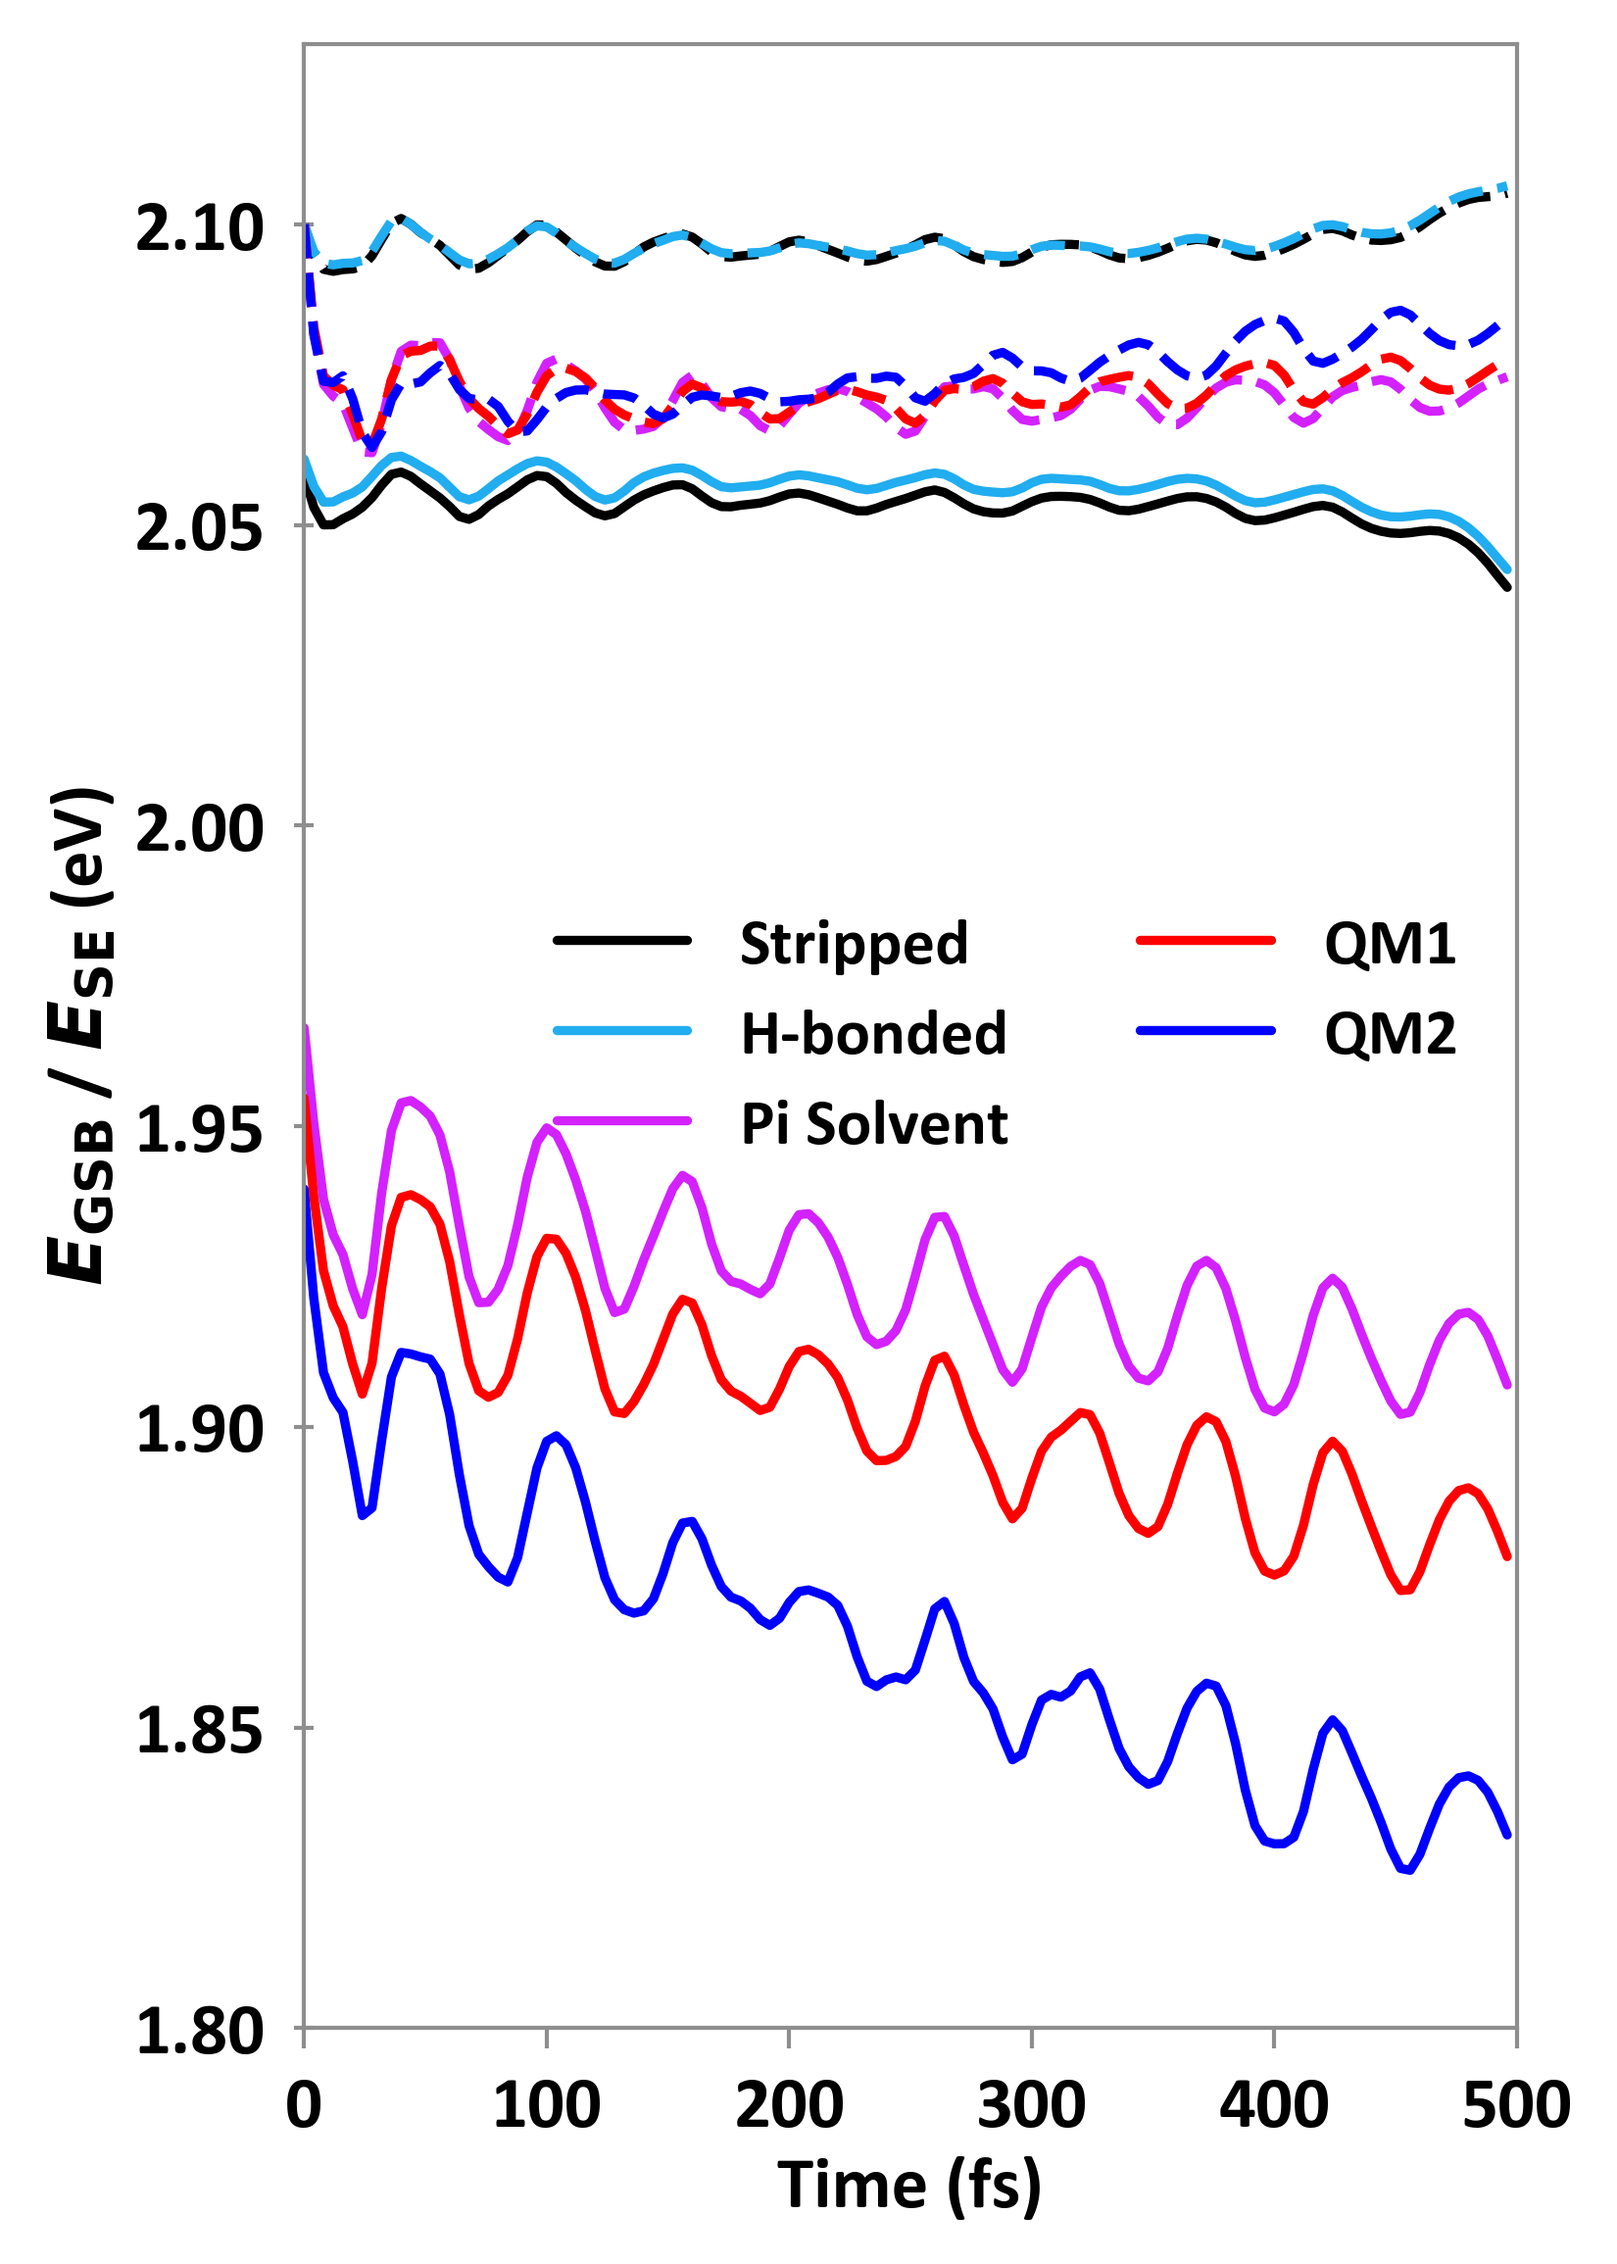
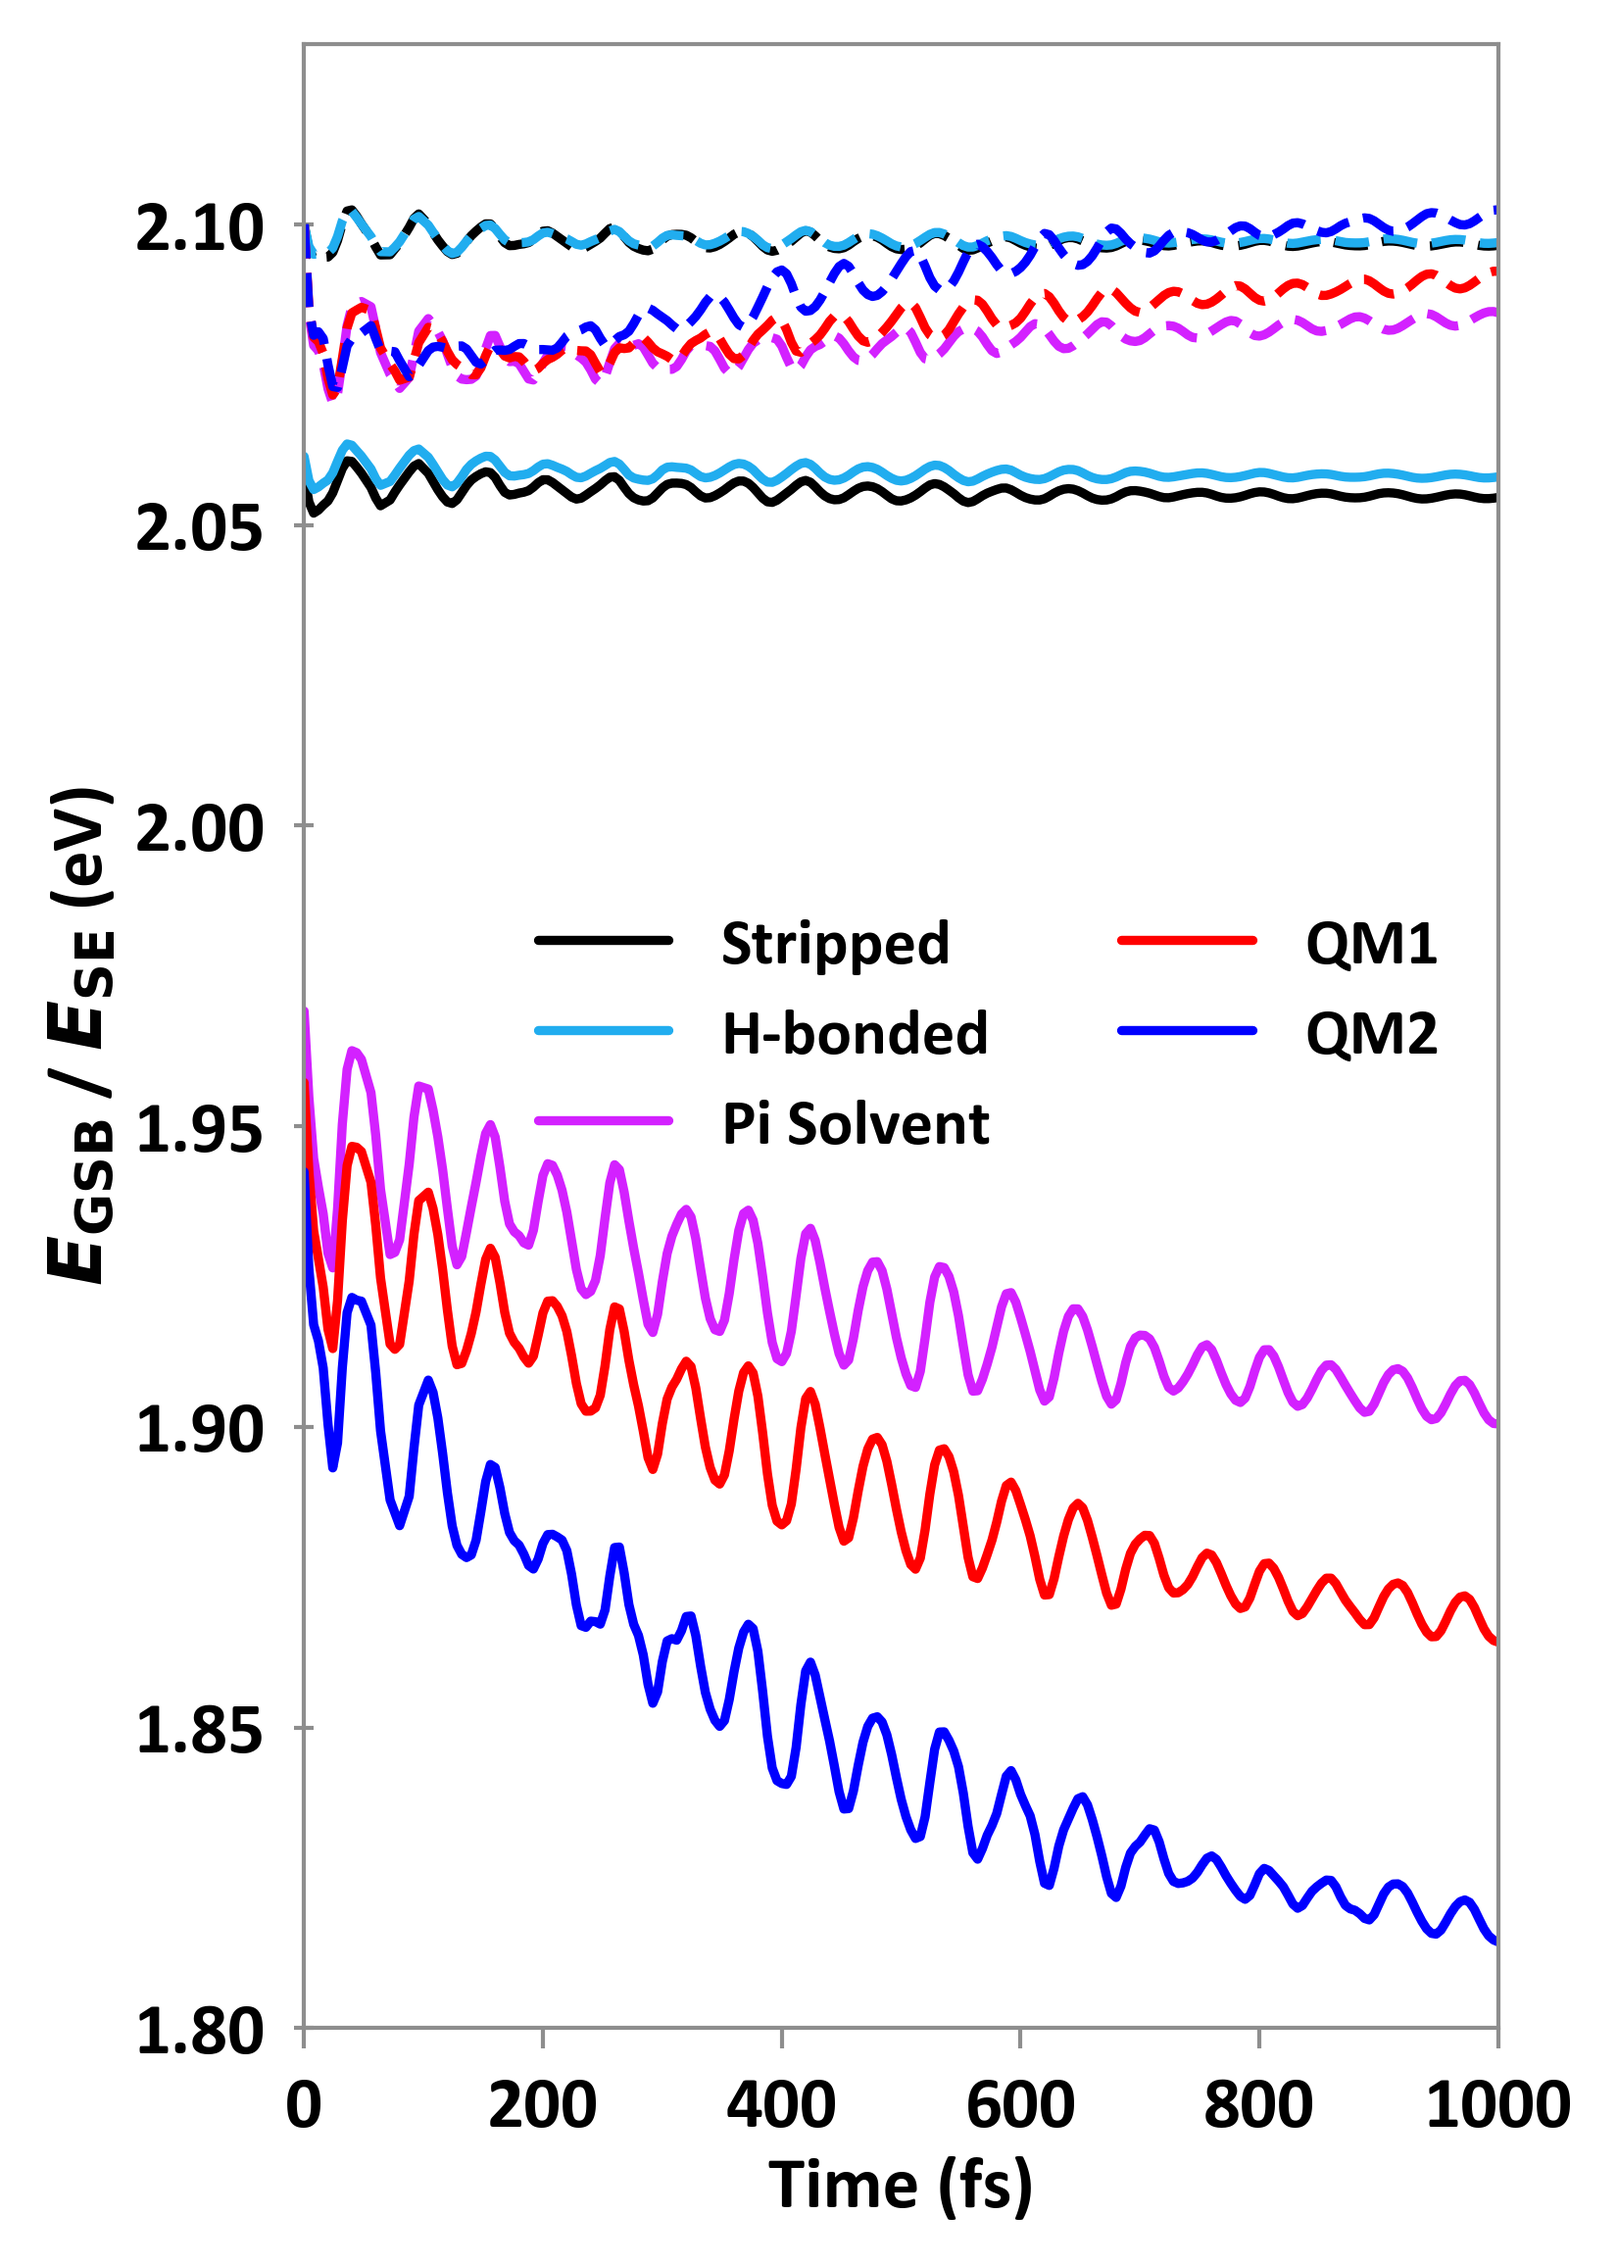
Fourier Transform of SS works

diff --git a/plot_SS_vs_time.py b/plot_SS_vs_time.py
@@ -12,11 +12,18 @@ AU_2_FS = 0.02418884254
 
 def run_analysis(ax=None):
     data_folders = (
-        GS.data_root_dir + 'gs-aimd/stripped/results', 
-        GS.data_root_dir + 'gs-aimd/mm_4hb/results', 
-        GS.data_root_dir + 'gs-aimd/mm_C4/results', 
-        GS.data_root_dir + 'gs-aimd/mm_qm1/results', 
-        GS.data_root_dir + 'gs-aimd/qm2/results')
+        # GS.data_root_dir + 'gs-aimd/stripped/results', 
+        # GS.data_root_dir + 'gs-aimd/mm_4hb/results', 
+        # GS.data_root_dir + 'gs-aimd/mm_C4/results', 
+        # GS.data_root_dir + 'gs-aimd/mm_qm1/results', 
+        # GS.data_root_dir + 'gs-aimd/qm2/results',
+    
+        GS.data_root_dir + 'gs-aimd-longer/stripped/', 
+        GS.data_root_dir + 'gs-aimd-longer/mm_4hb/', 
+        GS.data_root_dir + 'gs-aimd-longer/mm_C4/', 
+        GS.data_root_dir + 'gs-aimd-longer/mm_qm1/', 
+        GS.data_root_dir + 'gs-aimd-longer/qm2/',
+    )
     dt = 4 #    in femtoseconds
     titles = ['Stripped', 'H-bonded', 'Pi Solvent', 'QM1', 'QM2']
     save_names = ['stripped', 'mm_4hb', 'mm_C4', 'mm_qm1', 'qm2']
@@ -41,6 +48,7 @@ def run_analysis(ax=None):
         else:
             data = np.loadtxt(data_file + '.gz')
         data[:, 1] *= AU_2_EV
+        print(data.shape)
         
         #   reshape data
         n_pts_per_time = len(set(data[:, 1]))
@@ -52,8 +60,14 @@ def run_analysis(ax=None):
         absorptions = []
         emissions_interps = []
         absorptions_interps = []
+        keep_times = []
         shift = None
         for j, spectra in enumerate(data):
+            
+            if np.sum(np.isnan(spectra)) > 0:
+                print("Skipping ", j)
+                continue
+
             spectra[:, 1] /= np.max(spectra[:, 1])
             # spectra[:, 0] += shift_freq
             #   first split the spectrum by from the location of the maximum
@@ -103,15 +117,17 @@ def run_analysis(ax=None):
             emissions.append(emiss_avg + shift)
             absorptions.append(abs_avg + shift)
 
+            keep_times.append(times[j])
+
         if ax is not None:
             if interpolate:
-                ax.plot(times, absorptions_interps, color=colors[i], linestyle='--')
-                ax.plot(times, emissions_interps, color=colors[i], label=titles[i])
+                ax.plot(keep_times, absorptions_interps, color=colors[i], linestyle='--')
+                ax.plot(keep_times, emissions_interps, color=colors[i], label=titles[i])
             else:
-                ax.plot(times, absorptions, color=colors[i], linestyle='--')
-                ax.plot(times, emissions, color=colors[i], label=titles[i])
+                ax.plot(keep_times, absorptions, color=colors[i], linestyle='--')
+                ax.plot(keep_times, emissions, color=colors[i], label=titles[i])
 
-        out_data = np.array([times, absorptions, emissions, absorptions_interps, emissions_interps]).T
+        out_data = np.array([keep_times, absorptions, emissions, absorptions_interps, emissions_interps]).T
         np.savetxt('stokes_shift/{:s}.txt'.format(save_names[i]), out_data, 
                 header='time (fs) absorption(nearest) emission(nearest) absorption(interp) emission(interp)')
 
@@ -124,7 +140,7 @@ if __name__ == '__main__':
     ax.set_xlabel('Time (fs)')
     ax.set_ylabel("$E_\mathrm{GSB}$ / $E_\mathrm{SE} $ (eV)")
     ax.set_ylim(1.8, 2.13)
-    ax.set_xlim(0, 500)
+    ax.set_xlim(0, 1000)
 
     fig.tight_layout()
     fig.savefig('png/SS_vs_Time.png', dpi=300)

diff --git a/plot_2DES_solvent_2.py b/plot_2DES_solvent_2.py
@@ -24,21 +24,22 @@ plt.rcParams.update(rcParams)
 #   within each key are the lists of data files to use.
 plot_info = {
     'QM1': (
-    GS.data_root_dir + 'gs-aimd/mm_qm1/results/vee__2DES_12.dat',
+    # GS.data_root_dir + 'gs-aimd/mm_qm1/results/vee__2DES_12.dat',
+    GS.data_root_dir + 'gs-aimd/mm_qm1/results/vee__2DES_1.dat',
     GS.data_root_dir + 'gs-aimd/mm_qm1/results/vee__2DES_50.dat',
     GS.data_root_dir + 'gs-aimd/mm_qm1/results/vee__2DES_100.dat'),
 
     'QM2': (
-    GS.data_root_dir + 'gs-aimd/qm2/results/vee__2DES_12.dat',
+    GS.data_root_dir + 'gs-aimd/qm2/results/vee__2DES_1.dat',
     GS.data_root_dir + 'gs-aimd/qm2/results/vee__2DES_50.dat',
     GS.data_root_dir + 'gs-aimd/qm2/results/vee__2DES_100.dat'),
 
     'Experiment': (
-    GS.data_root_dir + 'experimental_data/twoDSpec_Converted/twoDSpecMat_14.dat',
+    GS.data_root_dir + 'experimental_data/twoDSpec_Converted/twoDSpecMat_7.dat',
     GS.data_root_dir + 'experimental_data/twoDSpec_Converted/twoDSpecMat_37.dat',
     GS.data_root_dir + 'experimental_data/twoDSpec_Converted/twoDSpecMat_67.dat',),
 }
-t2_times = [50, 200, 400] # t2 times in femtoseconds
+t2_times = [0, 200, 400] # t2 times in femtoseconds
 
 fig_height = 1.8*len(plot_info) + 0.5
 n_rows = len(plot_info)
@@ -49,7 +50,8 @@ fig, ax_grid = plt.subplots(
     figsize=np.array((6.2,fig_height))*1.2,
     )
 
-ideal_max_pos = (2.088511, 2.088511)
+# ideal_max_pos = (2.088511, 2.088511)
+ideal_max_pos = (2.05149689, 2.03809733)
 ref_bottom_corner = None
 colormap_name = 'jet'
 
@@ -78,13 +80,21 @@ for i, (title, files) in enumerate(plot_info.items()):
         
         #   recenter data at experimental maximum
         #   further data are then centered by it's bottom corner
+        # if min_pos is None:
+        #     min_loc = np.argmax(data[:, 2])
+        #     min_pos = data[min_loc, 0:2].copy()
+        #     data[:, 0:2] += (ideal_max_pos- min_pos)
+        #     ref_bottom_corner = np.min(data, axis=0)[0:2]
+        # bottom_corner = np.min(data, axis=0)[0:2]
+        # data[:, 0:2] += (ref_bottom_corner - bottom_corner)
+
         if min_pos is None:
             min_loc = np.argmax(data[:, 2])
             min_pos = data[min_loc, 0:2].copy()
-            data[:, 0:2] += (ideal_max_pos- min_pos)
-            ref_bottom_corner = np.min(data, axis=0)[0:2]
-        bottom_corner = np.min(data, axis=0)[0:2]
-        data[:, 0:2] += (ref_bottom_corner - bottom_corner)
+            shift = ideal_max_pos- min_pos
+        if i != 2:
+            data[:, 0:2] += shift
+
 
         X = data[:,0].reshape(dim_y,dim_x)
         Y = data[:,1].reshape(dim_y,dim_x)
@@ -123,8 +133,10 @@ for i, (title, files) in enumerate(plot_info.items()):
 
         x_lims.append(ax.get_xlim())
         y_lims.append(ax.get_ylim())
-        ax.set_xlim(1.85, 2.35)
-        ax.set_ylim(1.85, 2.35)
+        ax.set_xlim(1.85, 2.32)
+        ax.set_ylim(1.85, 2.32)
+
+        ax.plot(ax.get_ylim(), ax.get_ylim(), color='white', linestyle='--', linewidth=1.5)
 
 min_min_freq = min(np.min(x_lims), np.min(y_lims))
 min_max_freq = min(np.max(x_lims), np.max(y_lims))

diff --git a/plot_SS_Fourier.py b/plot_SS_Fourier.py
@@ -3,13 +3,17 @@ import numpy as np
 from plot_SS_vs_time import run_analysis
 import global_settings as GS
 from scipy.fft import fft, fftfreq
+from scipy.optimize import curve_fit
+from scipy.interpolate import interp1d
+from FourierTransform import *
 
-def fit_to_exponential():
-    pass
+def exp_func(t, a, b, c):
+    return a * np.exp(-t/b) + c
 
 
 AU_2_EV = 27.211396132
 AU_2_FS = 0.02418884254
+AU_2_CM = 219474.63
 
 fig, ax = plt.subplots(figsize=np.array((7, 5))*1.1)
 
@@ -29,22 +33,43 @@ run_analysis()
 
 
 for i in range(len(data_files)):
-    if i != 4:
-        continue
+    if i < 2: continue
     data = np.loadtxt(data_files[i])
     times = data[:, 0]
-    diff_interp = data[:, 3] - data[:, 4]
-    diff_interp -= np.mean(diff_interp)
-    # ax.plot(times, diff_interp, label=titles[i], color=colors[i])
+    keep = (times <= 1000)
+    data = data[keep]
+    times = times[keep]/AU_2_FS
+    # ss_original = data[:, 3] - data[:, 4]
+    ss_original = data[:, 4]
 
-    N = times.shape[0]
-    T = times[1] - times[0]
-    fourier_transform = fft(diff_interp)[0:N//2]
-    fourier_transform_freq = fftfreq(N, T)[:N//2]
-    # ax.plot(fourier_transform_freq, 2.0/N * np.abs(fourier_transform), label=titles[i])
-    
 
-    break
+
+    #   fit exponential to stokes shift
+    popt, pcov = curve_fit(exp_func, times, ss_original, maxfev=10000, p0=(0.1, 10000, 2))
+    print(popt)
+    exp_fit = exp_func(times, *popt)
+    # ss_residule = (ss_original - exp_fit)*np.exp(-times*0.005)
+    ss_residule = (ss_original - exp_fit)
+
+    # ax.plot(times*AU_2_FS, ss_original, label=titles[i], color=colors[i])
+    # ax.plot(times*AU_2_FS, exp_fit, color='black', linestyle='--')
+    # ax.plot(times*AU_2_FS, ss_residule, color=colors[i], linestyle='-')
+    # ax.set_xlabel('Time (fs)')
+    # ax.set_ylabel('Stokes Shift (eV)')
+
+    # fft_res = fourierTransform(times, ss_residule, len(times), interp1d, {'bounds_error': False, 'fill_value': 0.0})
+
+    fft_res = explicitFourierTransform(times, ss_residule, np.linspace(300/AU_2_CM, 800/AU_2_CM, 1000))
+    omega = fft_res['freq']*AU_2_CM
+    ft = np.abs(fft_res['ft'])
+    ft /= ft.max()
+    ax.plot(omega, ft)
+    ax.set_ylim(0, 1.1)
+    ax.set_xlim(omega.min(), omega.max())
+
+
+    # break
 
 ax.legend()
+fig.tight_layout()
 plt.show()

diff --git a/FourierTransform.py b/FourierTransform.py
@@ -1,0 +1,66 @@
+import numpy as np
+from scipy.fft import fft, fftfreq
+from scipy.interpolate import interp1d
+from scipy.optimize import minimize
+from scipy.integrate import simpson
+
+
+def fourierTransform(t, y, num_points=100, interp_func=None, interp_args=None):
+
+    times = np.copy(t)
+    amps = np.copy(y)
+
+    #   if interpolation function is supplied, generate new times and amplitudes
+    if interp_func:
+        if interp_args is None:
+            interp_args = {}
+        f = interp_func(t, y, **interp_args)
+        times = np.linspace(times[0], times[-1], num_points)
+        amps = f(times)
+        print(amps)
+        
+    #   compute fft and it's corresponding frequencies
+    dT = times[1] - times[0]
+    N = times.shape[0]
+    fft_amps = fft(amps, N)[0:N//2]
+    fft_freq = fftfreq(N, dT)[0:N//2]
+
+    result = {
+        'times': times,
+        'amps': amps,
+        'fft': fft_amps,
+        'freq': fft_freq
+    }
+
+    return result
+
+def explicitFourierTransform(t, y, freq, num_points=100, interp_func=None, interp_args=None):
+
+    times = np.copy(t)
+    amps = np.copy(y)
+
+    #   if interpolation function is supplied, generate new times and amplitudes
+    if interp_func:
+        if interp_args is None:
+            interp_args = {}
+        f = interp_func(t, y, **interp_args)
+        times = np.linspace(times[0], times[-1], num_points)
+        amps = f(times)
+        print(amps)
+        
+    #   compute fft and it's corresponding frequencies
+    dT = times[1] - times[0]
+    N = freq.shape[0]
+    ft = np.zeros(N)
+    for j in range(N):
+        integrand = np.exp(1j*freq[j]*times)*y
+        ft[j] = simpson(integrand, times)
+
+    result = {
+        'times': times,
+        'amps': amps,
+        'ft': ft,
+        'freq': np.copy(freq)
+    }
+
+    return result

diff --git a/global_settings.py b/global_settings.py
@@ -5,5 +5,5 @@ script_dir = os.path.abspath(os.path.dirname(__file__))
 plt.style.use(script_dir + '/style.mplstyle')
 
 data_root_dir = '/Users/cmyers/Library/CloudStorage/OneDrive-UniversityofCaliforniaMerced/crysel_violet/2DES/shao-yu_replication/'
-data_root_dir = 'C:\\Users\\chris\\OneDrive - University of California Merced\crysel_violet\\2DES\\shao-yu_replication\\'
+# data_root_dir = 'C:\\Users\\chris\\OneDrive - University of California Merced\crysel_violet\\2DES\\shao-yu_replication\\'
 os.makedirs('png', exist_ok=True)
